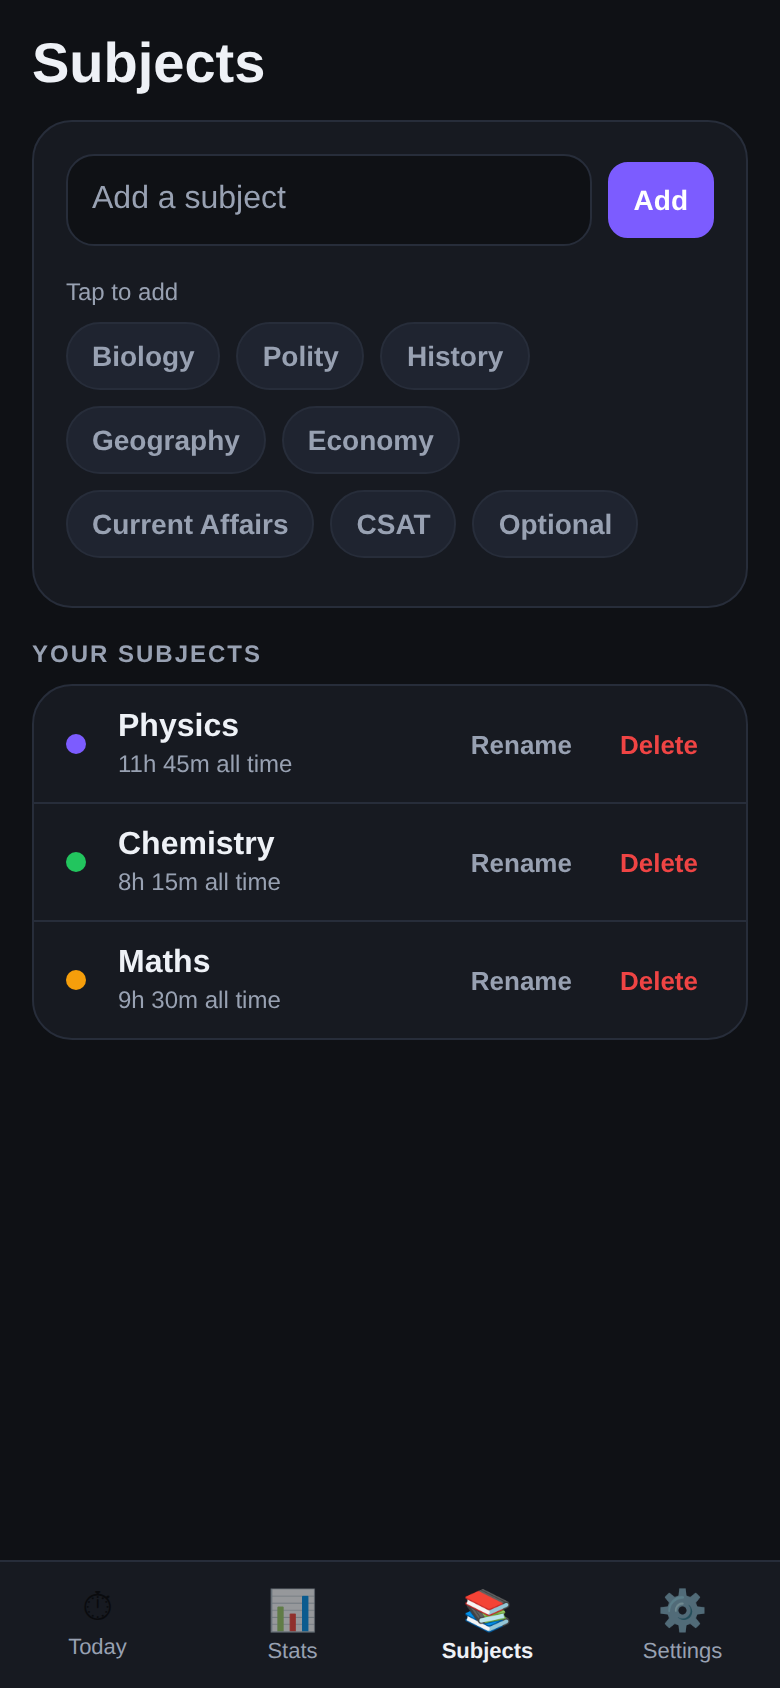
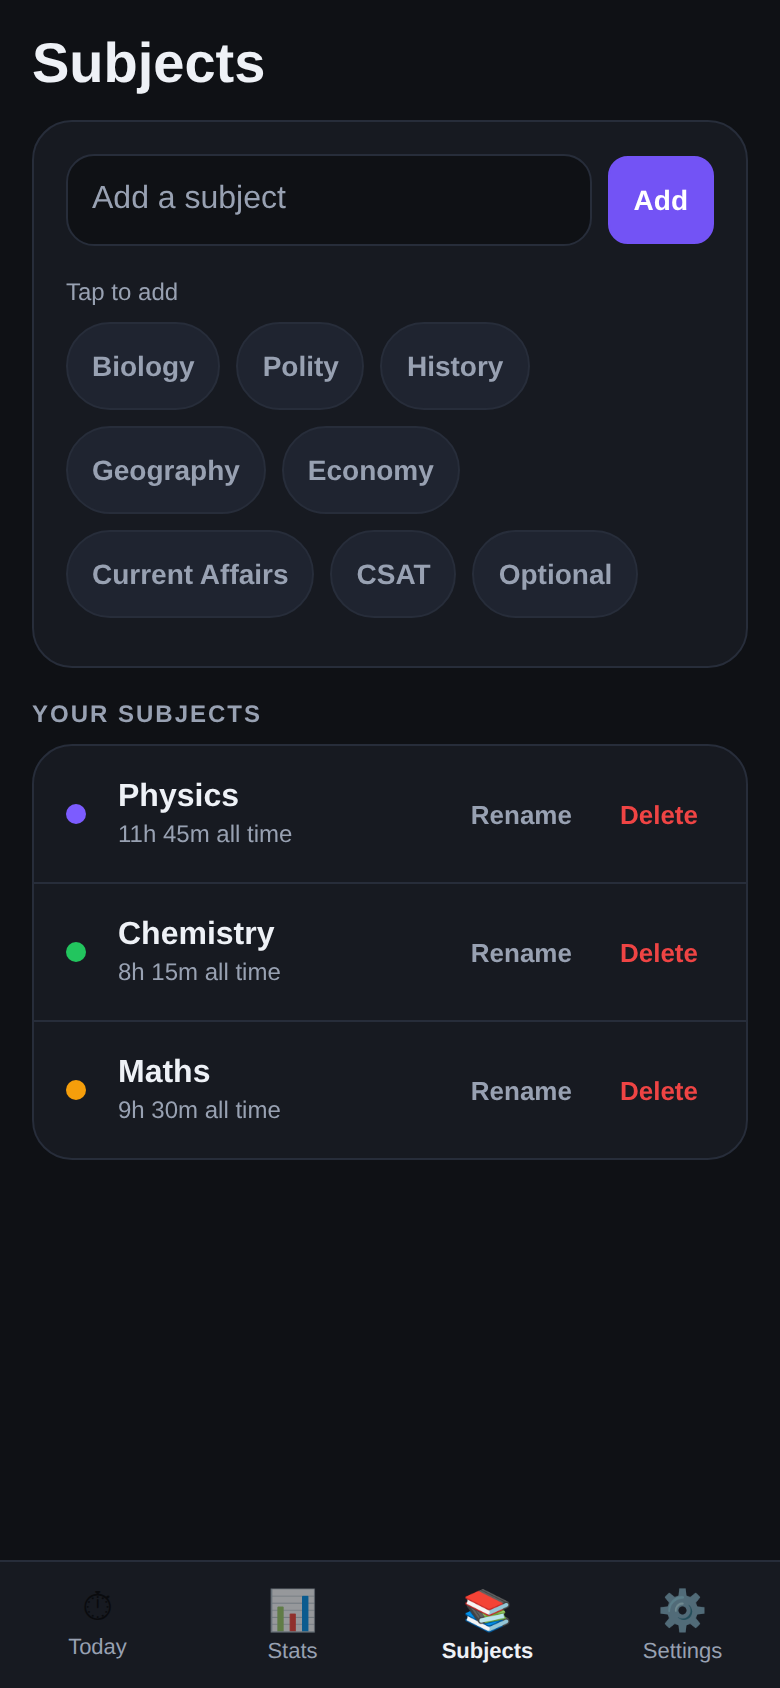
Accessibility pass, checked against the rendered DOM
Added e2e/run-a11y.js, which reads the accessibility tree the app actually
produces rather than trusting the props in the source. It failed five ways
on first run, and every failure was real:

- react-native-web does not translate accessibilityState into ARIA, so the
  subject picker and the tab bar announced no selected state at all. The
  aria-* props are now passed alongside the RN ones; RN 0.86 maps those to
  native semantics too, so nothing is lost on device.
- accessibilityElementsHidden likewise does nothing on web, leaving the
  decorative dial exposed as an unlabelled graphic. It is now aria-hidden,
  while the numbers inside it stay readable.
- "Edit" and "Delete" in the sittings list, and "Rename"/"Delete" in
  subjects, were bare verbs. Each now names what it acts on: "Edit —
  Physics, 6 Aug 2026".
- Those row actions were 31px tall against a 44px minimum. Chips and small
  buttons were 36-38px. All are now 44.

Separately, contrast was computed rather than eyeballed. White on the old
accent was 4.35:1 — under AA for the 16px bold button labels that sit on
it. The accent is split in two: a slightly darker fill (4.9:1 with white)
and a lighter accentText for accent-coloured text (5.1:1 on the ground).
No single value clears 4.5:1 in both roles.

55 unit tests, 37 app checks, 8 midnight checks, 12 accessibility checks.

Claude-Session: https://claude.ai/code/session_01SwPLxYNFiW8hG8yL3DbhML

diff --git a/e2e/run-a11y.js b/e2e/run-a11y.js
@@ -1,0 +1,125 @@
+/* Accessibility checks against the rendered DOM. react-native-web maps
+   accessibilityRole/State/Label onto ARIA, so what a screen reader would see
+   here is a fair proxy for what TalkBack sees on the device. */
+
+const { chromium } = require('playwright-core');
+
+const BASE = 'http://127.0.0.1:8081';
+let failures = 0;
+const check = (name, ok, extra = '') => {
+  console.log(`${ok ? 'PASS' : 'FAIL'}  ${name}${ok ? '' : '  → ' + extra}`);
+  if (!ok) failures++;
+};
+
+const MIN_TARGET = 44;
+
+const seed = {
+  v: 1,
+  subjects: [
+    { id: 's1', name: 'Physics', color: '#7c5cff' },
+    { id: 's2', name: 'Chemistry', color: '#22c55e' }
+  ],
+  sessions: [
+    { id: 'x', subjectId: 's1', day: '2026-08-06', seconds: 5400, endedAt: 2, planned: true },
+    { id: 'y', subjectId: 's2', day: '2026-08-05', seconds: 3600, endedAt: 1, manual: true }
+  ],
+  dailyTargetMinutes: 240,
+  exam: null, active: null, lang: 'en',
+  reminder: { enabled: false, hour: 21, minute: 0 },
+  pomodoro: { preset: 'standard', focusMinutes: 25, breakMinutes: 5 }
+};
+
+(async () => {
+  const browser = await chromium.launch({
+    executablePath: '/opt/pw-browsers/chromium-1194/chrome-linux/chrome',
+    args: ['--no-sandbox']
+  });
+  const ctx = await browser.newContext({ viewport: { width: 390, height: 844 } });
+  const page = await ctx.newPage();
+
+  console.log('bundling…');
+  await page.goto(BASE, { waitUntil: 'domcontentloaded' });
+  await page.getByText('Today', { exact: true }).first().waitFor({ timeout: 180000 });
+  await page.evaluate(s => localStorage.setItem('padhai-streak:v1', JSON.stringify(s)), seed);
+  await page.reload({ waitUntil: 'domcontentloaded' });
+  await page.waitForTimeout(1500);
+
+  /** Every element that can be pressed, with its box and accessible name. */
+  const targets = () => page.evaluate(() => {
+    const out = [];
+    document.querySelectorAll('[role="button"], [role="tab"], [role="radio"]').forEach(el => {
+      const r = el.getBoundingClientRect();
+      if (r.width === 0 && r.height === 0) return;
+      out.push({
+        role: el.getAttribute('role'),
+        name: (el.getAttribute('aria-label') || el.textContent || '').trim().slice(0, 60),
+        w: Math.round(r.width),
+        h: Math.round(r.height)
+      });
+    });
+    return out;
+  });
+
+  // ---- dashboard ----
+  const dash = await targets();
+  check('every control on the dashboard has an accessible name',
+    dash.every(t => t.name.length > 0),
+    JSON.stringify(dash.filter(t => !t.name.length)));
+
+  const smallDash = dash.filter(t => t.h < MIN_TARGET);
+  check(`every dashboard target is at least ${MIN_TARGET}px tall`,
+    smallDash.length === 0,
+    JSON.stringify(smallDash));
+
+  check('the subject picker announces which subject is chosen',
+    (await page.getByTestId('pick-s1').getAttribute('aria-checked')) === 'true');
+  check('an unchosen subject is not announced as chosen',
+    (await page.getByTestId('pick-s2').getAttribute('aria-checked')) === 'false');
+  check('the chosen subject carries its time in its name',
+    ((await page.getByTestId('pick-s1').getAttribute('aria-label')) || '').includes('Physics'));
+
+  check('the tab bar reports which tab is current',
+    (await page.getByTestId('tab-today').getAttribute('aria-selected')) === 'true');
+
+  // ---- the dial reads as numbers, not as an unlabelled graphic ----
+  check('the dial\'s own numbers are readable',
+    (await page.getByTestId('dial-total').textContent()) === '0m');
+  const svgHidden = await page.evaluate(() => {
+    const svg = document.querySelector('svg');
+    if (!svg) return 'no svg';
+    let el = svg;
+    while (el) {
+      if (el.getAttribute && el.getAttribute('aria-hidden') === 'true') return true;
+      el = el.parentElement;
+    }
+    return false;
+  });
+  check('the decorative ring is hidden from screen readers', svgHidden === true, String(svgHidden));
+
+  // ---- stats: row actions must say what they act on ----
+  await page.getByTestId('tab-stats').click();
+  await page.waitForTimeout(800);
+  const stats = await targets();
+  const bare = stats.filter(t => /^(edit|delete|rename)$/i.test(t.name));
+  check('no bare "Edit"/"Delete" controls — each names its sitting',
+    bare.length === 0, JSON.stringify(bare));
+  check('an edit control names subject and date',
+    stats.some(t => /Edit — Physics, 6 Aug 2026/.test(t.name)),
+    JSON.stringify(stats.map(t => t.name).slice(0, 8)));
+
+  const smallStats = stats.filter(t => t.h < MIN_TARGET);
+  check(`every stats target is at least ${MIN_TARGET}px tall`,
+    smallStats.length === 0, JSON.stringify(smallStats));
+
+  // ---- subjects ----
+  await page.getByTestId('tab-subjects').click();
+  await page.waitForTimeout(700);
+  const subs = await targets();
+  check('subject actions name their subject',
+    subs.some(t => /Rename — Physics/.test(t.name)) && subs.some(t => /Delete — Physics/.test(t.name)),
+    JSON.stringify(subs.map(t => t.name).slice(0, 10)));
+
+  await browser.close();
+  console.log(failures ? `\n${failures} failing check(s)` : '\nall checks passed');
+  process.exit(failures ? 1 : 0);
+})();

diff --git a/src/screens/StatsScreen.tsx b/src/screens/StatsScreen.tsx
@@ -179,6 +179,8 @@ export default function StatsScreen() {
             </View>
             <Text style={styles.sittingTime}>{dur(session.seconds)}</Text>
             <Pressable
+              accessibilityRole="button"
+              accessibilityLabel={`${t('edit')} — ${subjectName(session.subjectId)}, ${prettyDate(session.day)}`}
               onPress={() => {
                 setEditError(null);
                 setEditing({
@@ -192,7 +194,12 @@ export default function StatsScreen() {
             >
               <Text style={styles.actionText}>{t('edit')}</Text>
             </Pressable>
-            <Pressable onPress={() => setDeleting(session.id)} style={styles.action}>
+            <Pressable
+              accessibilityRole="button"
+              accessibilityLabel={`${t('delete')} — ${subjectName(session.subjectId)}, ${prettyDate(session.day)}`}
+              onPress={() => setDeleting(session.id)}
+              style={styles.action}
+            >
               <Text style={[styles.actionText, { color: colors.danger }]}>{t('delete')}</Text>
             </Pressable>
           </View>
@@ -403,10 +410,10 @@ const styles = StyleSheet.create({
     fontSize: 13,
     fontWeight: '600'
   },
-  action: { paddingHorizontal: space.xs, paddingVertical: space.sm },
+  action: { paddingHorizontal: space.xs, paddingVertical: space.sm, minHeight: 44, justifyContent: 'center' },
   actionText: { color: colors.muted, fontSize: 13, fontWeight: '600' },
   showAll: { padding: space.md, alignItems: 'center' },
-  showAllText: { color: colors.accent, fontWeight: '700', fontSize: 13 },
+  showAllText: { color: colors.accentText, fontWeight: '700', fontSize: 13 },
   label: { color: colors.muted, marginBottom: space.sm, fontSize: 13 },
   input: {
     backgroundColor: colors.bg,

diff --git a/src/screens/SubjectsScreen.tsx b/src/screens/SubjectsScreen.tsx
@@ -84,12 +84,19 @@ export default function SubjectsScreen() {
                 </Text>
               </View>
               <Pressable
+                accessibilityRole="button"
+                accessibilityLabel={`${t('rename')} — ${subject.name}`}
                 onPress={() => setEditing({ id: subject.id, name: subject.name })}
                 style={styles.action}
               >
                 <Text style={styles.actionText}>{t('rename')}</Text>
               </Pressable>
-              <Pressable onPress={() => setDeleting(subject.id)} style={styles.action}>
+              <Pressable
+                accessibilityRole="button"
+                accessibilityLabel={`${t('delete')} — ${subject.name}`}
+                onPress={() => setDeleting(subject.id)}
+                style={styles.action}
+              >
                 <Text style={[styles.actionText, { color: colors.danger }]}>{t('delete')}</Text>
               </Pressable>
             </View>
@@ -176,7 +183,7 @@ const styles = StyleSheet.create({
   flex: { flex: 1 },
   name: { color: colors.text, fontWeight: '700', fontSize: 16 },
   meta: { color: colors.muted, fontSize: 12, marginTop: 2 },
-  action: { paddingHorizontal: space.sm, paddingVertical: space.sm },
+  action: { paddingHorizontal: space.sm, paddingVertical: space.sm, minHeight: 44, justifyContent: 'center' },
   actionText: { color: colors.muted, fontSize: 13, fontWeight: '600' },
   sheetRow: { flexDirection: 'row', gap: space.md }
 });

diff --git a/src/components/ui.tsx b/src/components/ui.tsx
@@ -94,6 +94,8 @@ export function Chip({ label, onPress, selected, testID }: {
       onPress={onPress}
       testID={testID}
       accessibilityRole="button"
+      accessibilityState={{ selected: !!selected }}
+      aria-pressed={!!selected}
       style={({ pressed }) => [
         styles.chip,
         selected && styles.chipSelected,
@@ -142,7 +144,7 @@ const styles = StyleSheet.create({
     borderColor: colors.line,
     backgroundColor: colors.surface2
   },
-  btnSm: { minHeight: 38, paddingHorizontal: space.md, borderRadius: radius.sm },
+  btnSm: { minHeight: 44, paddingHorizontal: space.md, borderRadius: radius.sm },
   btnPrimary: { backgroundColor: colors.accent, borderColor: colors.accent },
   btnGhost: { backgroundColor: 'transparent' },
   btnDanger: { backgroundColor: 'transparent', borderColor: colors.danger },
@@ -152,6 +154,8 @@ const styles = StyleSheet.create({
   track: { backgroundColor: colors.surface2, overflow: 'hidden', width: '100%' },
   dot: { width: 10, height: 10, borderRadius: 5, marginRight: space.sm },
   chip: {
+    minHeight: 44,
+    justifyContent: 'center',
     paddingHorizontal: space.md,
     paddingVertical: space.sm,
     borderRadius: radius.pill,

diff --git a/src/screens/TodayScreen.tsx b/src/screens/TodayScreen.tsx
@@ -141,6 +141,12 @@ export default function TodayScreen({ onManageSubjects }: { onManageSubjects: ()
               return (
                 <Pressable
                   key={s.id}
+                  accessibilityRole="radio"
+                  accessibilityState={{ selected: on, checked: on }}
+                  aria-checked={on}
+                  accessibilityLabel={secs > 0
+                    ? `${s.name}, ${t('todaySuffix', { time: dur(secs) })}`
+                    : s.name}
                   onPress={() => setPicked(s.id)}
                   testID={`pick-${s.id}`}
                   style={({ pressed }) => [
@@ -277,6 +283,7 @@ const styles = StyleSheet.create({
   subjectChip: {
     flexDirection: 'row',
     alignItems: 'center',
+    minHeight: 44,
     paddingVertical: space.sm,
     paddingHorizontal: space.md,
     borderRadius: radius.pill,

diff --git a/src/components/Ring.tsx b/src/components/Ring.tsx
@@ -32,6 +32,13 @@ export function Ring({
 
   return (
     <View style={{ width: size, height: size }}>
+      <View
+        accessible={false}
+        importantForAccessibility="no-hide-descendants"
+        accessibilityElementsHidden
+        aria-hidden
+        pointerEvents="none"
+      >
       <Svg width={size} height={size}>
         <Defs>
           <LinearGradient id="ringFill" x1="0" y1="0" x2="1" y2="1">
@@ -65,6 +72,7 @@ export function Ring({
           />
         )}
       </Svg>
+      </View>
       <View style={[styles.center, { width: size, height: size }]} pointerEvents="box-none">
         {children}
       </View>

diff --git a/src/theme.ts b/src/theme.ts
@@ -8,7 +8,11 @@ export const colors = {
   line: '#272d3a',
   text: '#eef1f6',
   muted: '#98a1b2',
-  accent: '#7c5cff',
+  /* Fill for buttons and the dial. White at 16px bold on this reads 4.9:1. */
+  accent: '#7353f5',
+  /* The same hue lightened for use AS text on the dark ground: 5.1:1.
+     One token cannot clear 4.5:1 in both roles. */
+  accentText: '#8b6cff',
   accentSoft: '#2a2350',
   good: '#22c55e',
   warn: '#f59e0b',

diff --git a/App.tsx b/App.tsx
@@ -67,6 +67,7 @@ function Root() {
               onPress={() => setTab(key)}
               accessibilityRole="tab"
               accessibilityState={{ selected }}
+              aria-selected={selected}
               style={styles.tab}
             >
               <View>

diff --git a/e2e/README.md b/e2e/README.md
@@ -13,7 +13,13 @@ npx expo start --web --port 8081
 npm install --no-save playwright-core
 node e2e/run-app.js        # 37 checks: rounds, breaks, stats, editing, Hindi
 node e2e/run-midnight.js   #  8 checks: the day rollover, on a faked clock
+node e2e/run-a11y.js       # 12 checks: names, roles, states, touch targets
 ```
+
+`run-a11y.js` reads the rendered DOM. react-native-web maps accessibility
+props onto ARIA, so what it sees is a fair proxy for what TalkBack sees on the
+device — it is how we found that react-native-web does not translate
+`accessibilityState` into ARIA at all, and that the row actions were 31px tall.
 
 `run-midnight.js` installs a fake clock at 23:59:30 and fast-forwards past
 midnight with the app left open — the way an aspirant actually uses it at 1am.

diff --git a/README.md b/README.md
@@ -102,6 +102,9 @@ Five decisions worth knowing:
   `runningSince` plus banked seconds, so time spent with the app swiped away —
   or the phone face-down for two hours — is still counted. A `setInterval` only
   drives the display, and only while the clock is visibly running.
+- **Two accent tokens, not one.** `accent` sits behind white button labels
+  (4.9:1); `accentText` is the same hue lightened for use *as* text on the dark
+  ground (5.1:1). No single value clears 4.5:1 in both roles.
 - **The screen follows the day over, not just the data.** Day windows are
   recomputed when the local date changes, so an app left open at 00:01 shows
   the new day rather than last night's total.
